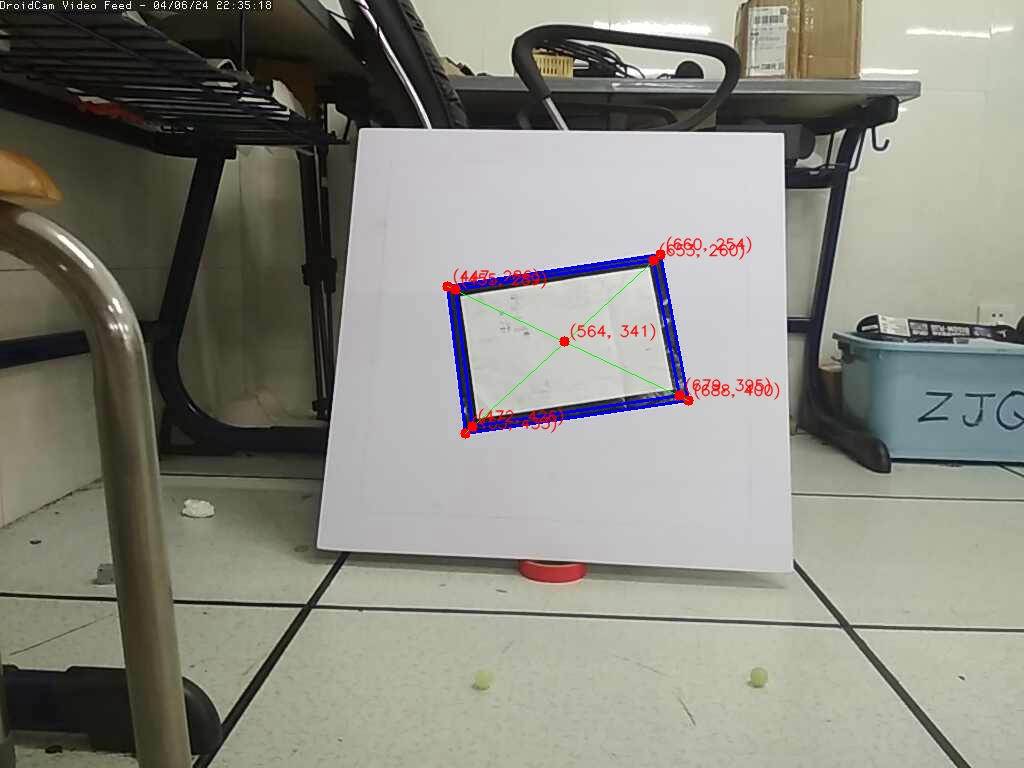
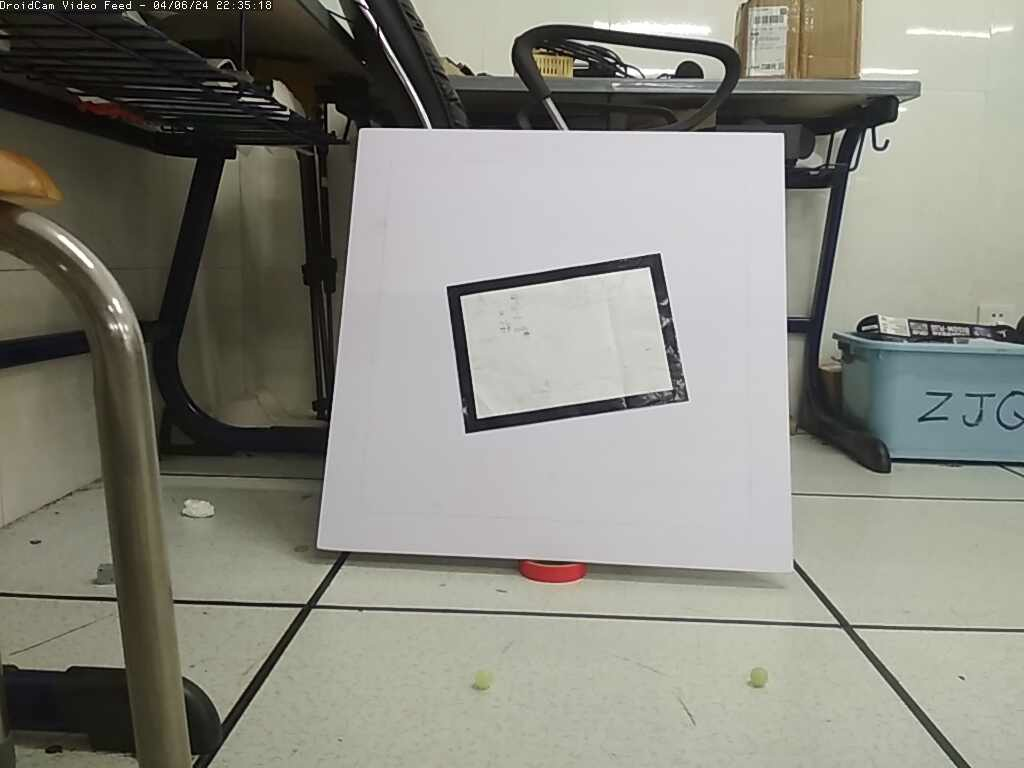
preprocess_image 参数调整测试

Changed region(s): [[0.4375, 0.3125, 0.7812, 0.5938], [0.5, 0.4688, 0.5312, 0.5], [0.5, 0.4062, 0.5312, 0.4375]]

diff --git a/test-cam.py b/test-cam.py
@@ -10,21 +10,31 @@ def increase_saturation(img, factor):
 # 读取图像
 img = cv2.imread('img/i.png')
 
-# 高斯模糊
-blurred = cv2.GaussianBlur(img, (5, 5), 0)
+gray = cv2.cvtColor(img, cv2.COLOR_BGR2GRAY)  # 转换为灰度图像
 
-# 增加饱和度
-blurred = increase_saturation(blurred, 8)
+blur = cv2.GaussianBlur(gray, (5, 5), 0)  # 高斯滤波去噪
 
-# 计算图像梯度
-edges = cv2.Canny(blurred, 100, 200)
+"""     # 颜色量化
+div = 16
+blur = blur // div * div + div // 2 """
+
+# 减小曝光
+#exposure_adjusted = cv2.addWeighted(blur, 0.5, np.zeros(blur.shape, dtype=blur.dtype), 0, 50)
+
+# 增加对比度（直方图均衡化）
+#blur = cv2.convertScaleAbs(blur, alpha=0.5, beta=-50)
+blur = cv2.convertScaleAbs(blur, alpha=1, beta=-120)
+
+#_, threshold = cv2.threshold(blur, 0, 255, cv2.THRESH_BINARY + cv2.THRESH_OTSU)
+#_, threshold = cv2.threshold(blur, 157, 255, cv2.THRESH_BINARY) # 二值化
+#edges = cv2.Canny(threshold, 10, 200)  # 使用Canny算子进行边缘检测
+edges = cv2.Canny(blur, 20, 200)
 
 
 # 显示结果
 cv2.imshow('Original Image', img)
-cv2.imshow('Preprocessed Image', blurred)
+cv2.imshow('Preprocessed Image', blur)
 cv2.imshow('Edges', edges)
 cv2.waitKey(0)
 cv2.destroyAllWindows()
-
 

diff --git a/cam8.py b/cam8.py
@@ -80,7 +80,7 @@ def preprocess_image(img):
 
     # 增加对比度（直方图均衡化）
     #blur = cv2.convertScaleAbs(blur, alpha=0.5, beta=-50)
-    blur = cv2.convertScaleAbs(blur, alpha=1.5, beta=-90)
+    blur = cv2.convertScaleAbs(blur, alpha=1, beta=-120)
 
     #_, threshold = cv2.threshold(blur, 0, 255, cv2.THRESH_BINARY + cv2.THRESH_OTSU)
     #_, threshold = cv2.threshold(blur, 157, 255, cv2.THRESH_BINARY) # 二值化
@@ -223,7 +223,7 @@ if __name__ == "__main__":
     contours = preprocess_image(img)
 
     if contours is not None:
-        vertices = find_max_perimeter_contour(contours, 10090*4, 88*4)
+        vertices = find_max_perimeter_contour(contours, 10090*4, 200*4)
         img = draw_contour_and_vertices(img, vertices, (276 / 297)) # (0.5/0.6)
 
     if vertices is not None:
